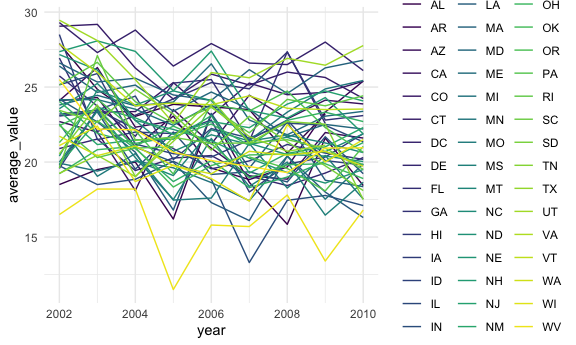
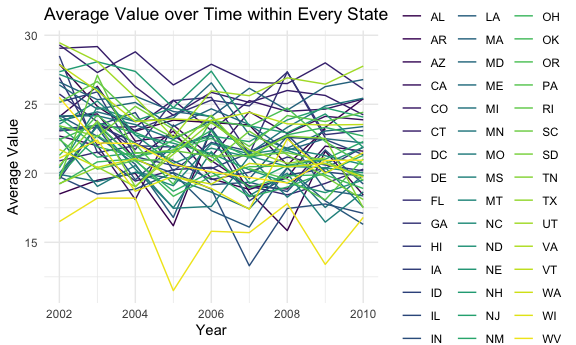
Wrap up

diff --git a/p8105_hw3_xj2278.Rmd-.md b/p8105_hw3_xj2278.Rmd-.md
@@ -99,7 +99,7 @@ instacart %>%
   summarize(n_obs = n()) %>% 
   mutate(
     aisle = factor(aisle),
-    aisle = fct_reorder(aisle,n_obs)
+    aisle = fct_reorder(aisle, n_obs)
   ) %>%  
   filter(n_obs > 10000) %>% 
   ggplot(aes(x = aisle, y = n_obs)) +
@@ -260,7 +260,13 @@ excellent =
 excellent %>% 
   ggplot(aes(x = year, y = average_value, color = locationabbr)) +
   geom_line(aes(group = locationabbr)) +
-  theme(legend.position = "right")
+  theme(legend.position = "right") + 
+  labs(
+    title = "Average Value over Time within Every State", 
+    x = "Year", 
+    y = "Average Value",
+    color = "States"
+  )
 ```
 
     ## Warning: Removed 3 row(s) containing missing values (geom_path).
@@ -281,8 +287,8 @@ ny_state =
   filter(locationabbr == "NY", year %in% c("2006", "2010")) 
 
 ny_state %>% 
-  ggplot(aes(x = response, y = data_value)) +
-  geom_boxplot() +
+  ggplot(aes(x = response, y = data_value, fill = response)) +
+  geom_boxplot(alpha = .5) +
   facet_grid(. ~ year) +
   labs(
     x = "Response",
